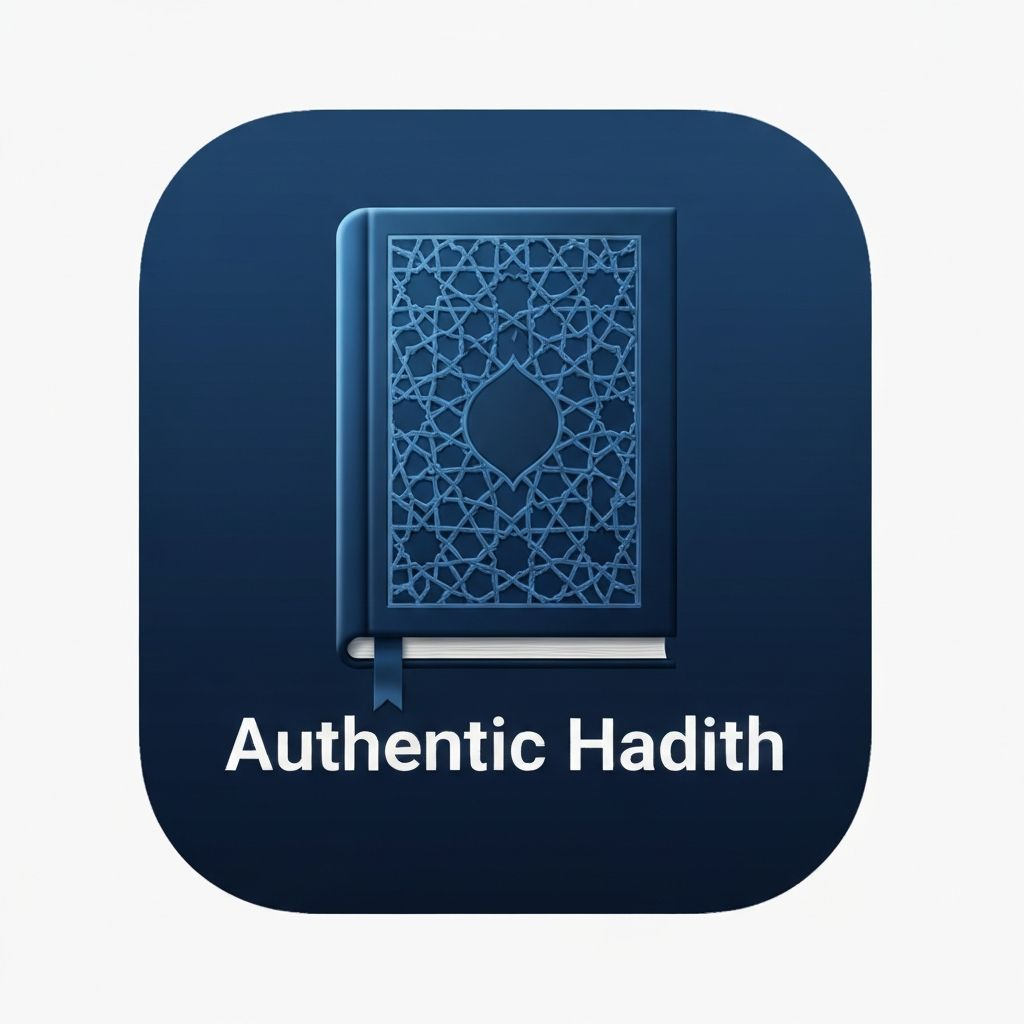
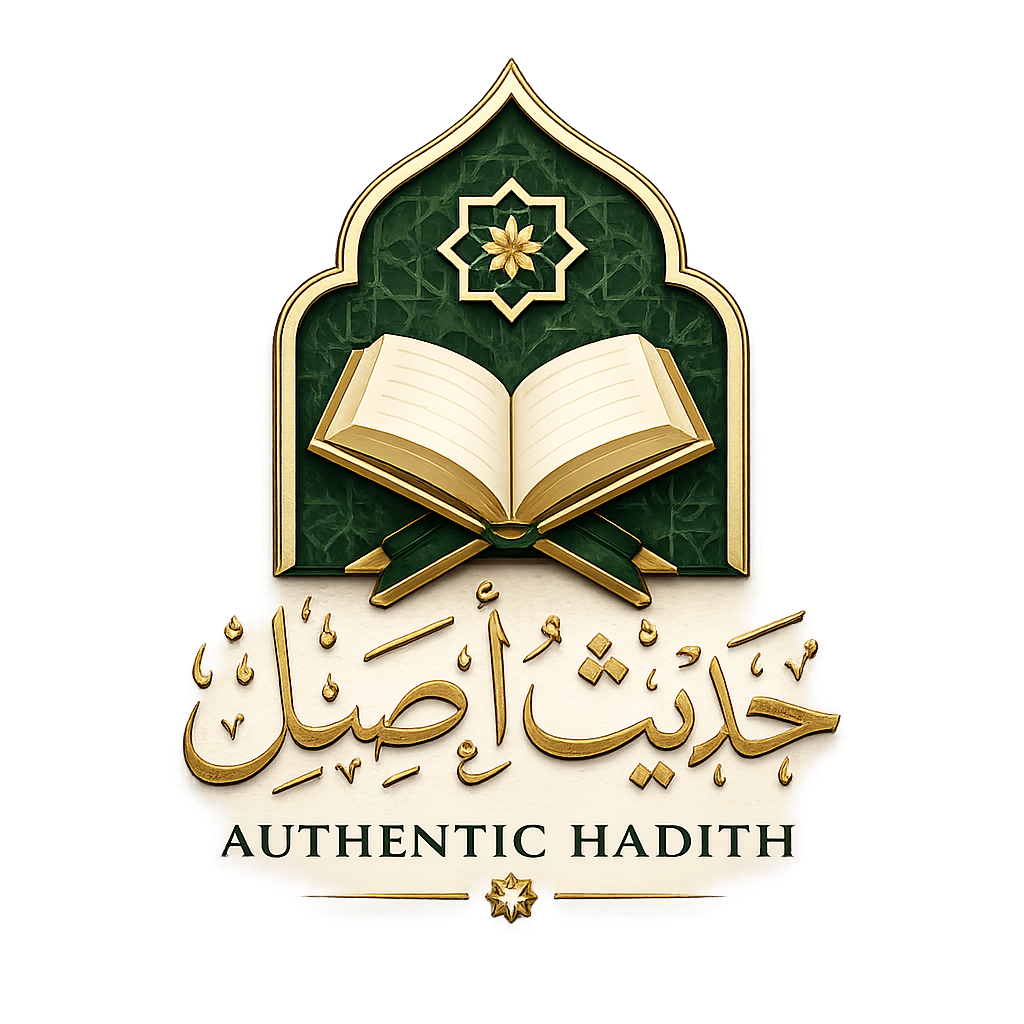
Add new files

diff --git a/docs/PAUL_SEMEAH_SETUP.md b/docs/PAUL_SEMEAH_SETUP.md
@@ -60,12 +60,12 @@ Paul has instant access to:
 ### After Paul Signs Up
 
 1. **Check if account was created:**
-   ```sql
+   \`\`\`sql
    SELECT * FROM auth.users WHERE email = '[email redacted]';
-   ```
+   \`\`\`
 
 2. **Verify lifetime premium was granted:**
-   ```sql
+   \`\`\`sql
    SELECT 
      name,
      subscription_tier,
@@ -73,7 +73,7 @@ Paul has instant access to:
      subscription_expires_at
    FROM profiles
    WHERE user_id = (SELECT id FROM auth.users WHERE email = '[email redacted]');
-   ```
+   \`\`\`
 
 3. **Expected Results:**
    - `subscription_tier`: `'lifetime'`
@@ -81,10 +81,10 @@ Paul has instant access to:
    - `subscription_expires_at`: `'2099-12-31'`
 
 ### Run the Full Verification Script
-```bash
+\`\`\`bash
 # From the project root, execute:
 # The verification script is at: /scripts/verify-paul-lifetime.sql
-```
+\`\`\`
 
 ---
 
@@ -103,7 +103,7 @@ Paul has instant access to:
 ### Adding More VIP Users
 To grant lifetime premium to additional users, update the VIP email list in the trigger function:
 
-```sql
+\`\`\`sql
 -- Update the email whitelist
 CREATE OR REPLACE FUNCTION public.auto_grant_lifetime_for_vip_emails()
 RETURNS TRIGGER AS $$
@@ -120,7 +120,7 @@ BEGIN
      ) 
   THEN
     -- Grant lifetime premium...
-```
+\`\`\`
 
 ---
 
@@ -133,14 +133,14 @@ BEGIN
 
 ### Manual Override (If Needed)
 If the trigger fails for any reason, run:
-```sql
+\`\`\`sql
 UPDATE profiles
 SET 
   subscription_tier = 'lifetime',
   subscription_status = 'active',
   subscription_expires_at = '2099-12-31'::timestamp with time zone
 WHERE user_id = (SELECT id FROM auth.users WHERE email = '[email redacted]');
-```
+\`\`\`
 
 ---
 

diff --git a/docs/VIP_LIFETIME_SETUP.md b/docs/VIP_LIFETIME_SETUP.md
@@ -26,7 +26,7 @@ A PostgreSQL trigger `auto_grant_lifetime_on_profile_insert` has been created th
 ## Testing & Confirmation
 
 ### To Verify Setup:
-```sql
+\`\`\`sql
 -- Check if trigger exists
 SELECT trigger_name FROM information_schema.triggers 
 WHERE trigger_name = 'auto_grant_lifetime_on_profile_insert';
@@ -42,7 +42,7 @@ SELECT
 FROM profiles p
 JOIN auth.users au ON au.id = p.user_id
 WHERE au.email = '[email redacted]';
-```
+\`\`\`
 
 Expected result:
 - `subscription_tier`: `'lifetime'`
@@ -55,14 +55,14 @@ To add additional users to the VIP lifetime list:
 
 1. Edit the SQL function in `/supabase/migrations/` (create new migration)
 2. Update the email list in the condition:
-```sql
+\`\`\`sql
 WHERE id = NEW.user_id 
 AND email IN ('[email redacted]', '[email redacted]')
-```
+\`\`\`
 3. Run the migration
 
 Or simply modify the existing trigger:
-```sql
+\`\`\`sql
 -- Update the email list
 CREATE OR REPLACE FUNCTION public.auto_grant_lifetime_for_vip_emails()
 RETURNS TRIGGER AS $$
@@ -75,7 +75,7 @@ BEGIN
      ) 
   THEN
     -- ... rest of function
-```
+\`\`\`
 
 ## Date Expiry
 - Expiry is set to **2099-12-31** to effectively provide lifetime access